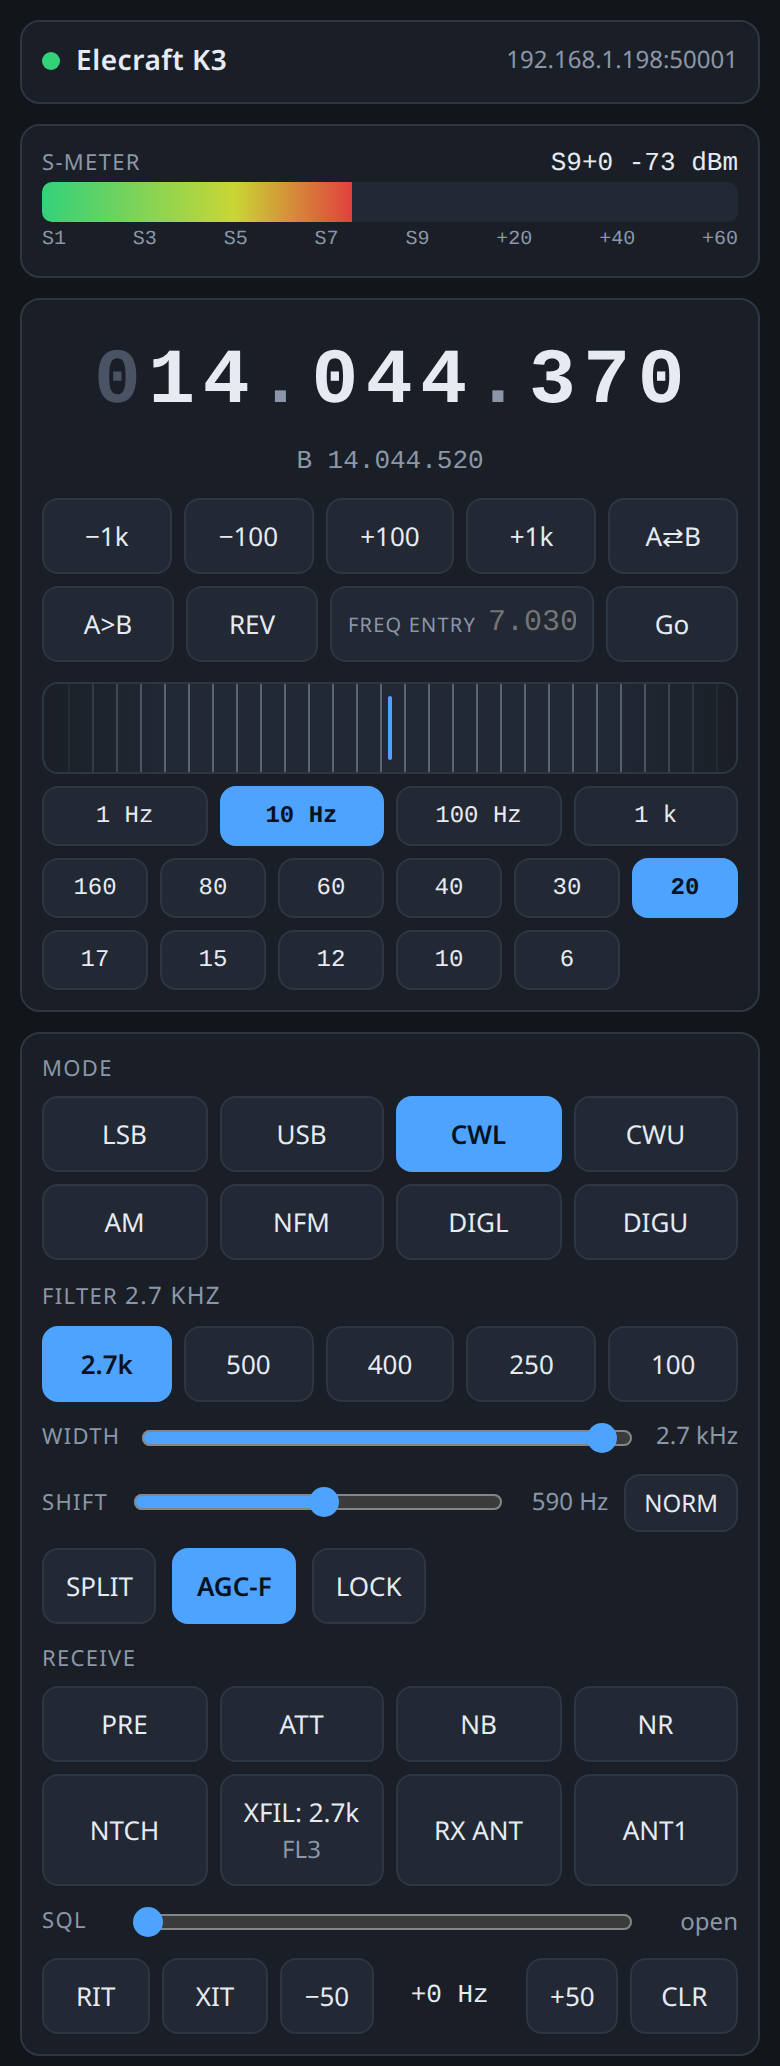
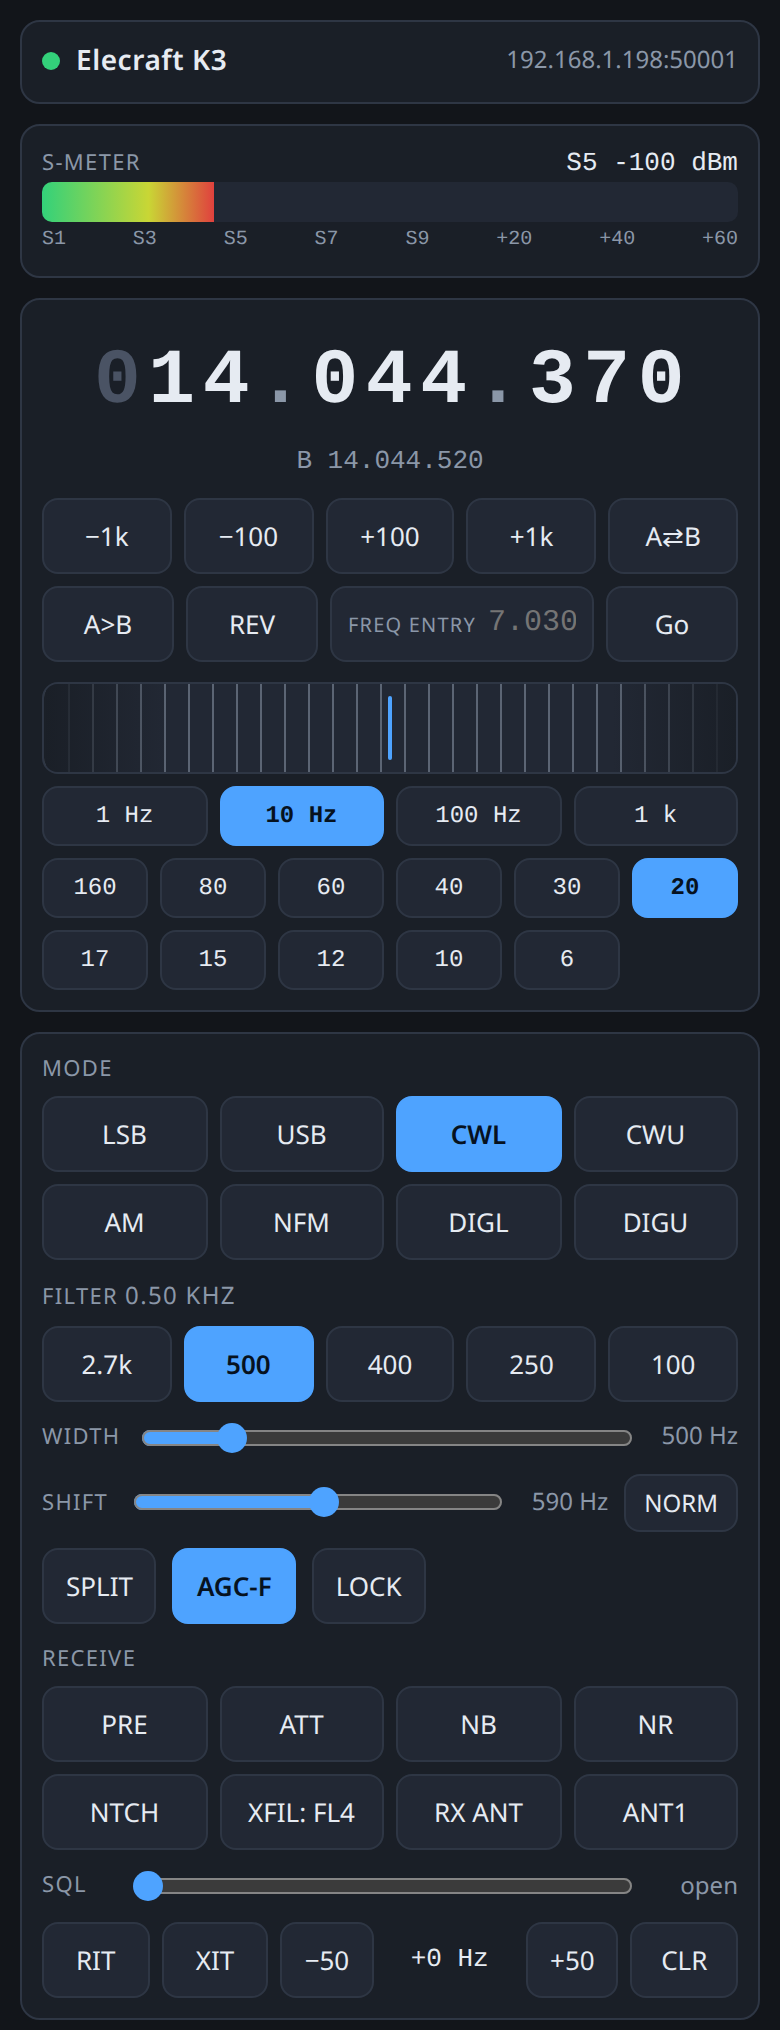
XFIL shows the slot only
The width is already on the Filter row and the WIDTH slider, so the
button reads 'XFIL: FL3' on one line. The bridge's per-slot width table
fed only that label, so it goes too, rather than sit there asking to be
kept up to date.

diff --git a/bridge/ui.html b/bridge/ui.html
@@ -86,7 +86,7 @@ h1{font-size:14px; margin:0; font-weight:600; letter-spacing:.02em}
   color:var(--ink); font-family:var(--mono); font-size:15px}
 /* Held, not tapped: no long-press menu or text selection under the finger. */
 #rev{touch-action:none; -webkit-touch-callout:none}
-/* "XFIL: 2.7k" on one line even at 360 px: less side padding, no wrap. */
+/* "XFIL: FL3" on one line even at 360 px. */
 #xfil{padding-left:4px; padding-right:4px; white-space:nowrap}
 #bands{display:grid; grid-template-columns:repeat(6,1fr); gap:6px; margin-top:6px}
 #bands button{padding:7px 0; font-size:12px; font-family:var(--mono)}
@@ -436,7 +436,7 @@ function onText(msg){
     case "ant":         S.ant = +args[1] || 0; paintRx(); break;
     case "rx_ant":      S.rxAnt = args[1] === "true"; paintRx(); break;
     case "if_shift":    S.ifc = +args[1] || 0; paintShift(); break;
-    case "xfil":        S.xfil = +args[1] || 0; S.xfilHz = +args[2] || 0; paintRx(); break;
+    case "xfil":        S.xfil = +args[1] || 0; paintRx(); break;
     case "notch":       S.notch = args[1] || "off"; paintRx(); break;
     case "nb_levels":   S.nbLevels = [+args[1] || 0, +args[2] || 0]; paintRx(); break;
     case "sql_enable":  S.sqlOn = args[1] === "true"; paintSql(); break;
@@ -873,14 +873,9 @@ function paintRx(){
   $("#ntch").classList.toggle("on", S.notch !== "off");
   $("#ntch").textContent = S.notch === "manual" ? "NTCH-M" : "NTCH";
   // Not a switch with an off, so never lit: it names the crystal in use.
-  // Says what the button is, then the crystal's width, which is what
-  // matters, over its slot number.
-  const xf = $("#xfil");
-  if (!S.xfil) xf.textContent = "XFIL";
-  else {
-    const w = S.xfilHz ? (S.xfilHz >= 1000 ? (S.xfilHz/1000) + "k" : S.xfilHz) : "XFIL";
-    xf.innerHTML = `XFIL: ${w}<br><span class="sub">FL${S.xfil}</span>`;
-  }
+  // Just the slot: the width it holds is already on the Filter row and
+  // the WIDTH slider, so repeating it here only cost space.
+  $("#xfil").textContent = S.xfil ? `XFIL: FL${S.xfil}` : "XFIL";
   // NB1 with both blanker levels at 00 blanks nothing.
   $("#nbhint").textContent = S.nb && !S.nbLevels[0] && !S.nbLevels[1]
     ? "NB is on but both blanker levels are 0, so it does nothing. Hold NB"
@@ -905,7 +900,7 @@ function paintRit(){
 // to the carrier is mode-dependent: SSB is offset, CW/AM/FM straddle it.
 const FILTERS = {
   ssb:[[300,2700,"2.7k"],[300,2400,"2.4k"],[300,1800,"1.8k"],[400,1200,"800"],[300,3600,"3.6k"]],
-  // The station's crystals are 2.7k, 500 and 250 (tci.XFIL_WIDTHS); the
+  // The station's crystals are 2.7k (FL3), 500 (FL4) and 250 (FL5); the
   // presets land on them, plus 400 and 100 for the DSP alone.
   cw: [[-1350,1350,"2.7k"],[-250,250,"500"],[-200,200,"400"],[-125,125,"250"],[-50,50,"100"]],
   am: [[-3000,3000,"6.0k"],[-2400,2400,"4.8k"],[-1500,1500,"3.0k"],[-1000,1000,"2.0k"],[-4000,4000,"8.0k"]],

diff --git a/bridge/tci.py b/bridge/tci.py
@@ -1525,14 +1525,8 @@ class Bridge:
     # AI2 is not known to report XF, so a press at the radio arrives through
     # the server's reconcile sweep.
 
-    # What is fitted in each slot at this station, in Hz, from the operator.
-    # The radio cannot report it over CAT, so a filter swap means an edit
-    # here. Slots not listed are empty (the tap skips them anyway).
-    XFIL_WIDTHS = {3: 2700, 4: 500, 5: 250}
-
     def xfil_notification(self) -> str:
-        n = self.state.xfil
-        return f"xfil:0,{n},{self.XFIL_WIDTHS.get(n, 0)}"
+        return f"xfil:0,{self.state.xfil}"
 
     def refresh_xfil(self) -> None:
         r = self.cat.ask("XF")

diff --git a/k3-tci-command-map.md b/k3-tci-command-map.md
@@ -483,7 +483,7 @@ slow and cite the caution above.
 | `ant:0,<1\|2>` (bridge's own) | `AN1;` / `AN2;` | `AN;` | — | ~0.5 s to confirm. Refused while transmitting. Reported on band change. **An antenna switch reports `AN` more than once**: the echo guard swallows one and the next arrived as news, so `AN`/`AR` from AI2 are broadcast only when they change the state |
 | `rx_ant:0,<bool>` (bridge's own) | `AR1;` / `AR0;` | `AR;` | — | Re-reads `PA` and `RA`, which are stored per RX ANT state. ~0.8 s to confirm (1.4-1.9 s when it also re-read `NB`/`NL`) |
 | REV | **none usable** | — | — | `SWT12` changed nothing CAT can see — `FA`, `FB`, `IF` unmoved after a tap (measured), so its state is invisible, and the reference warns REV is a limited-access state that can answer `?;`. The web UI's REV is a press-and-hold swap of A and B through `vfo`, restored on release |
-| `xfil_tap:0` (bridge's own) | `SWT29;` | `XF;`, then `BW;`/`IS;` | `XFn` = FL1-FL5 | Broadcast as `xfil:0,<n>,<Hz>` plus `rx_filter_band`; the width is from `tci.XFIL_WIDTHS` (this station: FL3 2.7k, FL4 500, FL5 250), because CAT cannot report what is fitted. **Each crystal resets the DSP width to suit itself** (measured in CW: FL4 400 Hz → FL5 250 → FL3 2700 → FL4 500, not back to 400). In CW the tap cycles FL4 → FL5 → FL3 only. AI2 reports no `XF`; the reconcile sweep reads it. **The reverse holds too: a `BW` change picks the narrowest crystal at least as wide** (measured in CW: 2700 and 1000 → FL3; 500, 400, 300 → FL4; 250, 100 → FL5), so the web UI's width slider drives the crystal and XFIL is an override |
+| `xfil_tap:0` (bridge's own) | `SWT29;` | `XF;`, then `BW;`/`IS;` | `XFn` = FL1-FL5 | Broadcast as `xfil:0,<n>` plus `rx_filter_band`. This station has FL3 2.7k, FL4 500, FL5 250; CAT cannot report what is fitted, and the web UI shows the slot only, since the width is already on the Filter row. **Each crystal resets the DSP width to suit itself** (measured in CW: FL4 400 Hz → FL5 250 → FL3 2700 → FL4 500, not back to 400). In CW the tap cycles FL4 → FL5 → FL3 only. AI2 reports no `XF`; the reconcile sweep reads it. **The reverse holds too: a `BW` change picks the narrowest crystal at least as wide** (measured in CW: 2700 and 1000 → FL3; 500, 400, 300 → FL4; 250, 100 → FL5), so the web UI's width slider drives the crystal and XFIL is an override |
 | `nr_tap:0` / `notch_tap:0` (bridge's own) | `SWT34;` / `SWT32;` | `DS;` byte `f` | — | No NR or notch command exists, so these press the switch; the result is read back and broadcast as `rx_nr_enable` (TCI's) and `notch:0,off\|auto\|manual` (the bridge's own). AI2 reports neither, so front-panel presses arrive via the 3 s reconcile sweep. Refused while transmitting |
 | `rx_nb_param:0,0,<0-100>` | `NL<dd><ii>;` | `NL;` | scale to 00-21 each | `dd` = DSP NB level, `ii` = IF NB level |
 | `lock:0,<bool>` | `LK1;` / `LK0;` | `LK;` | — | VFO A lock; `LK$` is VFO B. **Locks the knob only: an `FA` SET still moves VFO A with `LK1` set** (measured). The web UI refuses its own tuning while locked; the bridge passes CAT through, as the radio does |
